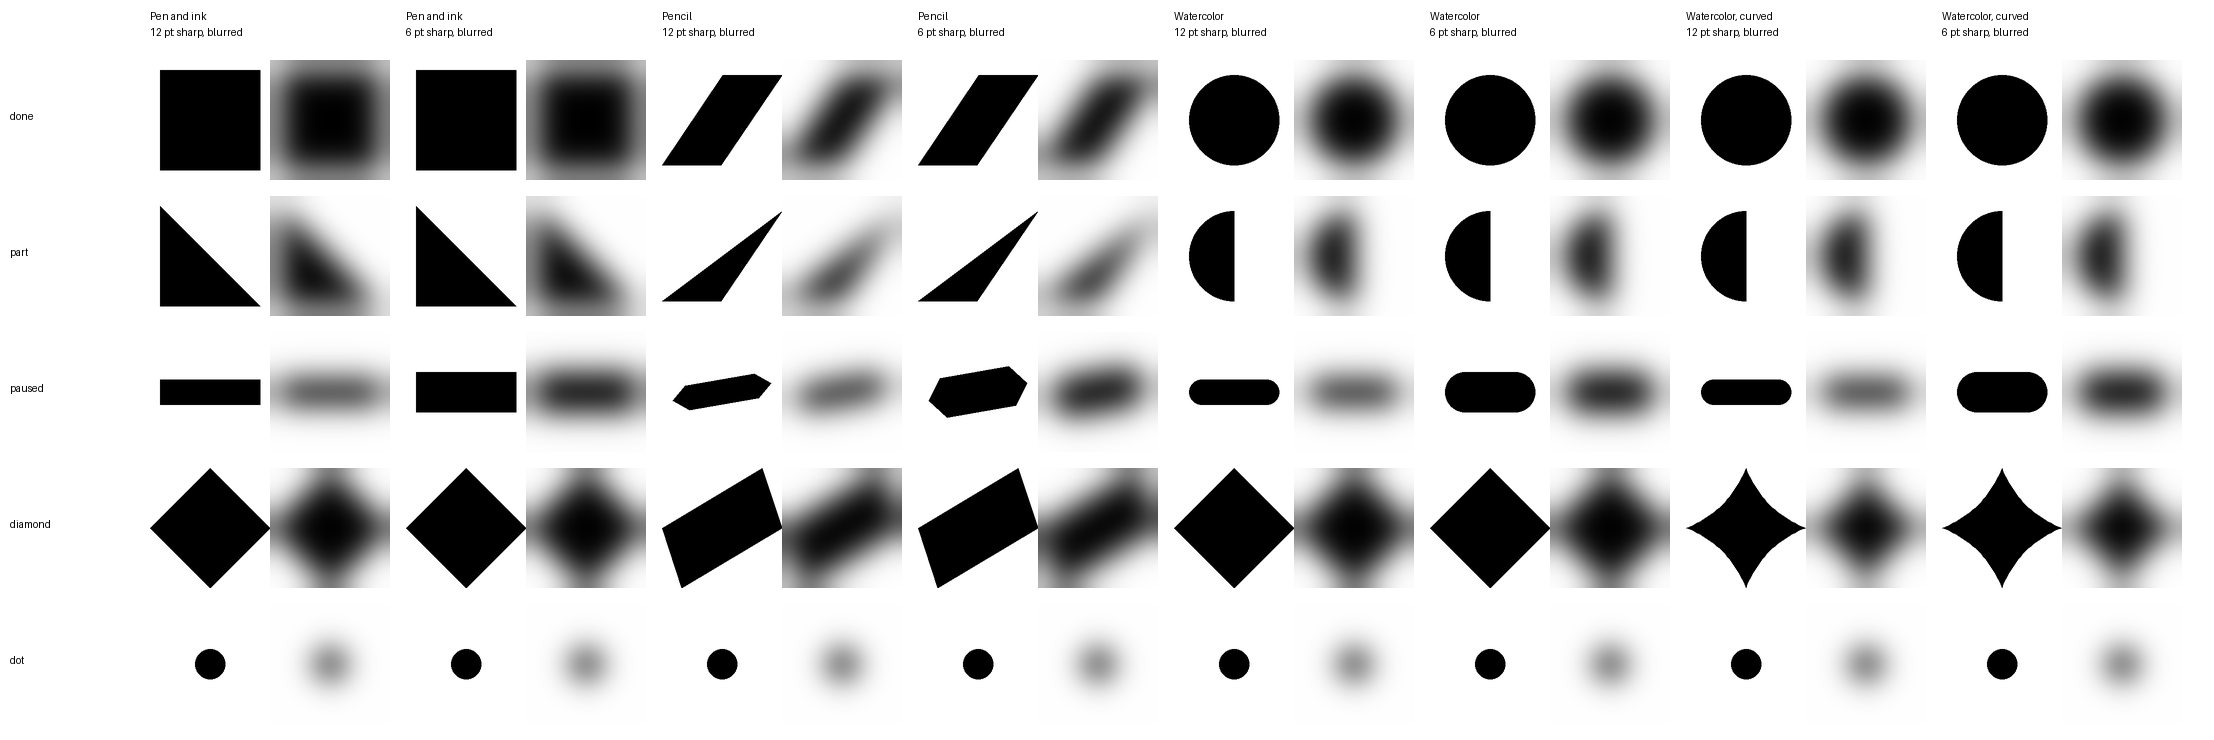
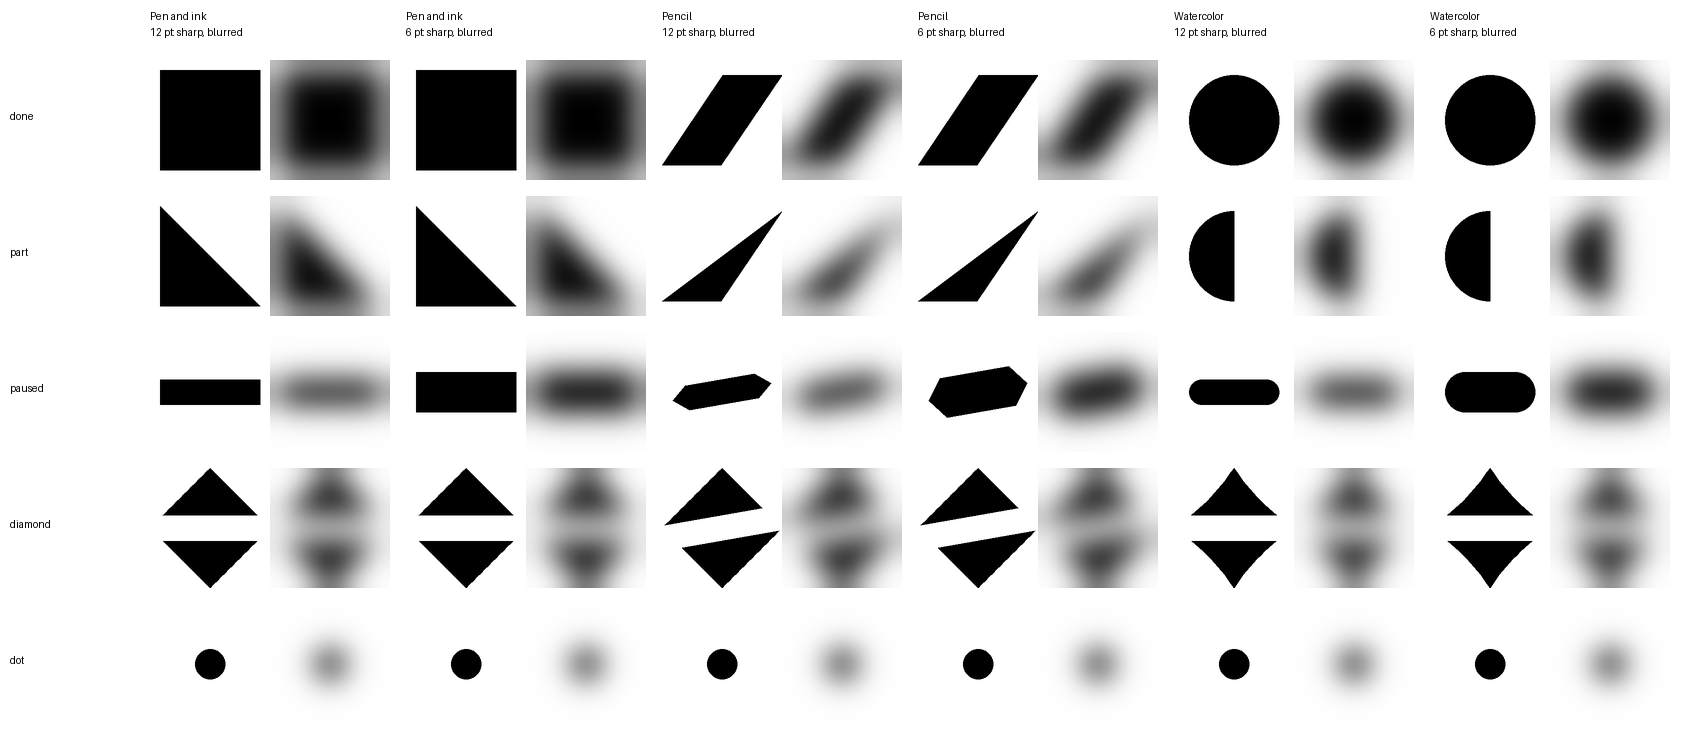
Small shapes pass the blur test with a split diamond
Pass mark 0.25. Every pair in every style is at 0.29 or more.

Claude-Session: https://claude.ai/code/session_012NdevCAvT4U8qS7nMJ64YM

diff --git a/tools/marks/small_shapes.py b/tools/marks/small_shapes.py
@@ -1,6 +1,6 @@
 """Small mark shapes for each style, with the blur test from docs/spec-m4.md.
 
-Draws every state at 6 and 12 points in a 12-unit cell, sharp and blurred, and
+Draws every state at 12 and 6 points in a 12-unit cell, sharp and blurred, and
 prints how far apart each pair of states is after a Gaussian blur of one eighth
 of the mark's width, in greyscale.
 
@@ -8,7 +8,7 @@ of the mark's width, in greyscale.
 """
 import math, sys
 import numpy as np
-from PIL import Image, ImageDraw, ImageFont
+from PIL import Image, ImageChops, ImageDraw, ImageFont
 from scipy.ndimage import gaussian_filter
 
 S = 20                      # pixels per unit; a cell is 12 units
@@ -22,6 +22,23 @@ def canvas():
 def poly(pts):
     im, d = canvas(); d.polygon([(x * S, y * S) for x, y in pts], fill=255); return im
 
+SLOT = 2.5                  # the gap through the diamond, in units. Set by the blur test on 15 November 2026
+
+def diamond(curve=0.0, tilt=0.0):
+    """A diamond at the full cell, split by a gap across its middle.
+
+    curve pulls the sides inward. tilt turns the gap, in degrees.
+    """
+    tips = [(6, 0), (12, 6), (6, 12), (0, 6)]; pts = []
+    for i in range(4):
+        (x0, y0), (x1, y1) = tips[i], tips[(i + 1) % 4]
+        cx, cy = (x0 + x1) / 2 + (6 - (x0 + x1) / 2) * curve * 2, (y0 + y1) / 2 + (6 - (y0 + y1) / 2) * curve * 2
+        for k in range(16):
+            u = k / 16; pts.append(((1-u)**2*x0 + 2*u*(1-u)*cx + u*u*x1, (1-u)**2*y0 + 2*u*(1-u)*cy + u*u*y1))
+    a = math.radians(-tilt); c, s = math.cos(a), math.sin(a); t = SLOT / 2
+    gap = poly([(6 + x * c - y * s, 6 + x * s + y * c) for x, y in [(-9, -t), (9, -t), (9, t), (-9, t)]])
+    return ImageChops.subtract(poly(pts), gap)
+
 def bar_thickness(size):    # at least 2 points, in units of a 12-unit cell
     return max(2.5, 2 * 12 / size)
 
@@ -34,7 +51,7 @@ def pen(state, size):
     if state == "part": return poly([(1, 1), (1, 11), (11, 11)])
     if state == "paused":
         t = bar_thickness(size) / 2; return poly([(1, 6 - t), (11, 6 - t), (11, 6 + t), (1, 6 + t)])
-    if state == "diamond": return poly([(6, 0), (12, 6), (6, 12), (0, 6)])
+    if state == "diamond": return diamond()
     return dot(size)
 
 def pencil(state, size):
@@ -45,29 +62,20 @@ def pencil(state, size):
         t = bar_thickness(size) / 2; a = math.radians(-10); c, s = math.cos(a), math.sin(a)
         pts = [(-5, 0), (-3.5, -t), (3.5, -t), (5, 0), (3.5, t), (-3.5, t)]     # tapered ends
         return poly([(6 + x * c - y * s, 6 + x * s + y * c) for x, y in pts])
-    if state == "diamond":
-        dx = 6 / math.tan(math.radians(56)); return poly([(6 + dx, 0), (12, 6), (6 - dx, 12), (0, 6)])
+    if state == "diamond": return diamond(tilt=10)     # upright: a leaning diamond blurs into the leaning block
     return dot(size)
 
-def water(state, size, curved=False):
+def water(state, size):
     im, d = canvas()
     if state == "done": d.ellipse([1.5 * S, 1.5 * S, 10.5 * S, 10.5 * S], fill=255); return im
     if state == "part": d.pieslice([1.5 * S, 1.5 * S, 10.5 * S, 10.5 * S], 90, 270, fill=255); return im
     if state == "paused":
         t = bar_thickness(size) / 2
         d.rounded_rectangle([1.5 * S, (6 - t) * S, 10.5 * S, (6 + t) * S], radius=t * S, fill=255); return im
-    if state == "diamond":
-        if not curved: return poly([(6, 0), (12, 6), (6, 12), (0, 6)])
-        pts = []; tips = [(6, 0), (12, 6), (6, 12), (0, 6)]
-        for i in range(4):                       # sides that curve inward
-            (x0, y0), (x1, y1) = tips[i], tips[(i + 1) % 4]
-            cx, cy = 6 + (x0 + x1 - 12) * 0.28, 6 + (y0 + y1 - 12) * 0.28
-            for k in range(24):
-                u = k / 24; pts.append(((1-u)**2*x0 + 2*u*(1-u)*cx + u*u*x1, (1-u)**2*y0 + 2*u*(1-u)*cy + u*u*y1))
-        return poly(pts)
+    if state == "diamond": return diamond(curve=0.1)   # barely curved: deeper curves blur to two faint blobs
     return dot(size)
 
-STYLES = [("Pen and ink", pen), ("Pencil", pencil), ("Watercolor", lambda s, z: water(s, z)), ("Watercolor, curved", lambda s, z: water(s, z, True))]
+STYLES = [("Pen and ink", pen), ("Pencil", pencil), ("Watercolor", water)]
 STATES = ["done", "part", "paused", "diamond", "dot"]
 PAIRS = [("done", "part"), ("done", "diamond"), ("paused", "dot"), ("part", "paused"), ("part", "dot"), ("diamond", "paused")]
 
@@ -105,8 +113,6 @@ def main(out):
     for st in STATES[:4]:
         B = {name: blurred(fn(st, 6)) for name, fn in STYLES[:3]}
         print(f"  {st:8} pen/pencil {apart(B['Pen and ink'], B['Pencil']):.2f}   pen/water {apart(B['Pen and ink'], B['Watercolor']):.2f}   pencil/water {apart(B['Pencil'], B['Watercolor']):.2f}")
-    a, b = blurred(water("diamond", 6)), blurred(water("diamond", 6, True)); disc = blurred(water("done", 6))
-    print(f"\nWatercolor diamond against the disc, 6 points: straight {apart(a, disc):.2f}, curved {apart(b, disc):.2f}")
 
 if __name__ == "__main__":
     main(sys.argv[1] if len(sys.argv) > 1 else "small-shapes.png")

diff --git a/docs/spec-m4.md b/docs/spec-m4.md
@@ -114,7 +114,7 @@ In Ink the paper is near-black cold-press with the same dimples and no stains. T
 | Done | Square | A block that leans at 56 degrees, at three quarters of the cell | Disc at three quarters of the cell |
 | Part done | Half square, cut on the diagonal | The lower half of the leaning block, cut on the diagonal | Half disc, split top to bottom |
 | Paused | Flat bar, square ends | One stroke with tapered ends, tilted 10 degrees | A round-ended dab |
-| Logged while paused | Diamond | A pointed diamond that leans at 56 degrees, at the full cell | A diamond at the full cell. Its sides are settled by test, below |
+| Logged while paused | A diamond at the full cell, split by a flat gap of 2.5 units | The same diamond, upright, with the gap tilted 10 degrees | The same diamond with barely curved sides and a flat gap |
 | Not scheduled | Dot | Dot | Dot |
 | Today | Square outline | A square of four strokes whose ends cross and overshoot each corner by 1 point | Brushed ring |
 
@@ -122,7 +122,9 @@ The dot is the same in every style. It is exempt from the rule that no style's s
 
 The paused bar is as wide as the done shape and at least 2 points thick. The accessibility review asked for the full cell. An earlier check found that a full-width bar joins the diamond beside it in a strip, so the width stays at the done shape's width and the blur test in step 2 decides.
 
-**Settled by test in step 2, not by debate.** The two reviews chose different Watercolor diamonds: straight sides, or sides that curve inward. Both are drawn at 6, 12 and 24 points and put through the blur test against the disc. The one that separates better is used.
+**Step 2, small shapes: tested.** The blur test found the diamond was the weakest shape in every style, Pen and ink included. It is now a split diamond. The numbers and what was ruled out are in `docs/m4-blur-test.md`. The pass mark is 0.25 and every pair in every style is at 0.29 or more. The diamond and the paused shape are exempt from the rule that no style's small shapes match another's.
+
+**This reaches milestone 2.** Pen and ink's small diamond is in the year view and the History month strip, which are being built now. The product owner set it as a gate on the milestone 2 merge: the small diamond is drawn split before that PR merges.
 
 **Plain text is not a setting.** The product owner would not add a flag. It becomes a gate in step 5: twelve habit names at 17 points are shown to the tired user and neurodiversity lenses. If the hand font fails, habit names use SF in that style, and only headings keep the display font.
 

diff --git a/docs/m4-blur-test.md b/docs/m4-blur-test.md
@@ -41,3 +41,29 @@ Tried for Watercolor at 6 points and weaker than the star: a triangle (0.20), a 
 | Diamond | 0.19 | 0.00 | 0.19 |
 
 **Finding.** The paused shape is nearly the same in all three styles. The straight diamond is identical in Pen and ink and Watercolor.
+
+## Outcome
+
+Settled on 15 November 2026 by the accessibility, low-vision and senior designer reviews, after two rounds.
+
+**Pass mark: 0.25.** At 0.16 a blurred pair looks the same and at 0.33 it looks distinct. The mark sits between those two. It is a calibration, not a measure of sight, and is confirmed by eye at real size.
+
+**"Logged while paused" becomes a split diamond.** It is a diamond at the full cell with a gap of 2.5 units across its middle. The designer wanted to keep the diamond, so the word and the large mark stay true. The accessibility review wanted a slot, because it was the only idea that passed. A diamond with a gap does both.
+
+| Style | Shape | Lowest distance to any other state |
+|---|---|---|
+| Pen and ink | Straight diamond, flat gap | 0.38 |
+| Pencil | Straight diamond, gap tilted 10 degrees | 0.32 |
+| Watercolor | Diamond with barely curved sides, flat gap | 0.29 |
+
+What the tests ruled out:
+- A gap of 2 units fails in Watercolor (0.24). A gap of 3 units passes, but the halves start to read as two marks: the blur keeps 43% of peak darkness in the gap, against 52% at 2.5 units.
+- A Pencil diamond that leans fails against the leaning block (0.16 to 0.22). The Pencil diamond stays upright, and this state is exempt from the rule that no style's small shapes match another's. Done and part done carry the style.
+- A Watercolor diamond with straight sides fails (0.23). Deeply curved sides blur to two faint blobs.
+
+**In a year grid the two halves stay together.** With done cells above and below, the blur keeps 38% to 44% of peak darkness inside the mark and 7% to 13% between it and its neighbours.
+
+**The paused shape is exempt** from the cross-style rule, like the dot. A dash is a dash in any material.
+
+**Still open for the full-size marks.** Whether the large diamond carries the same gap, so there is one drawing for one meaning. The diamond is also used for a log on a day off, which is not a pause, so the key calls it a diamond and does not say the gap means paused. Sharp, at 12 points, the mark can look like a pair of stepper arrows, so the key shows it beside the large diamond.
+
